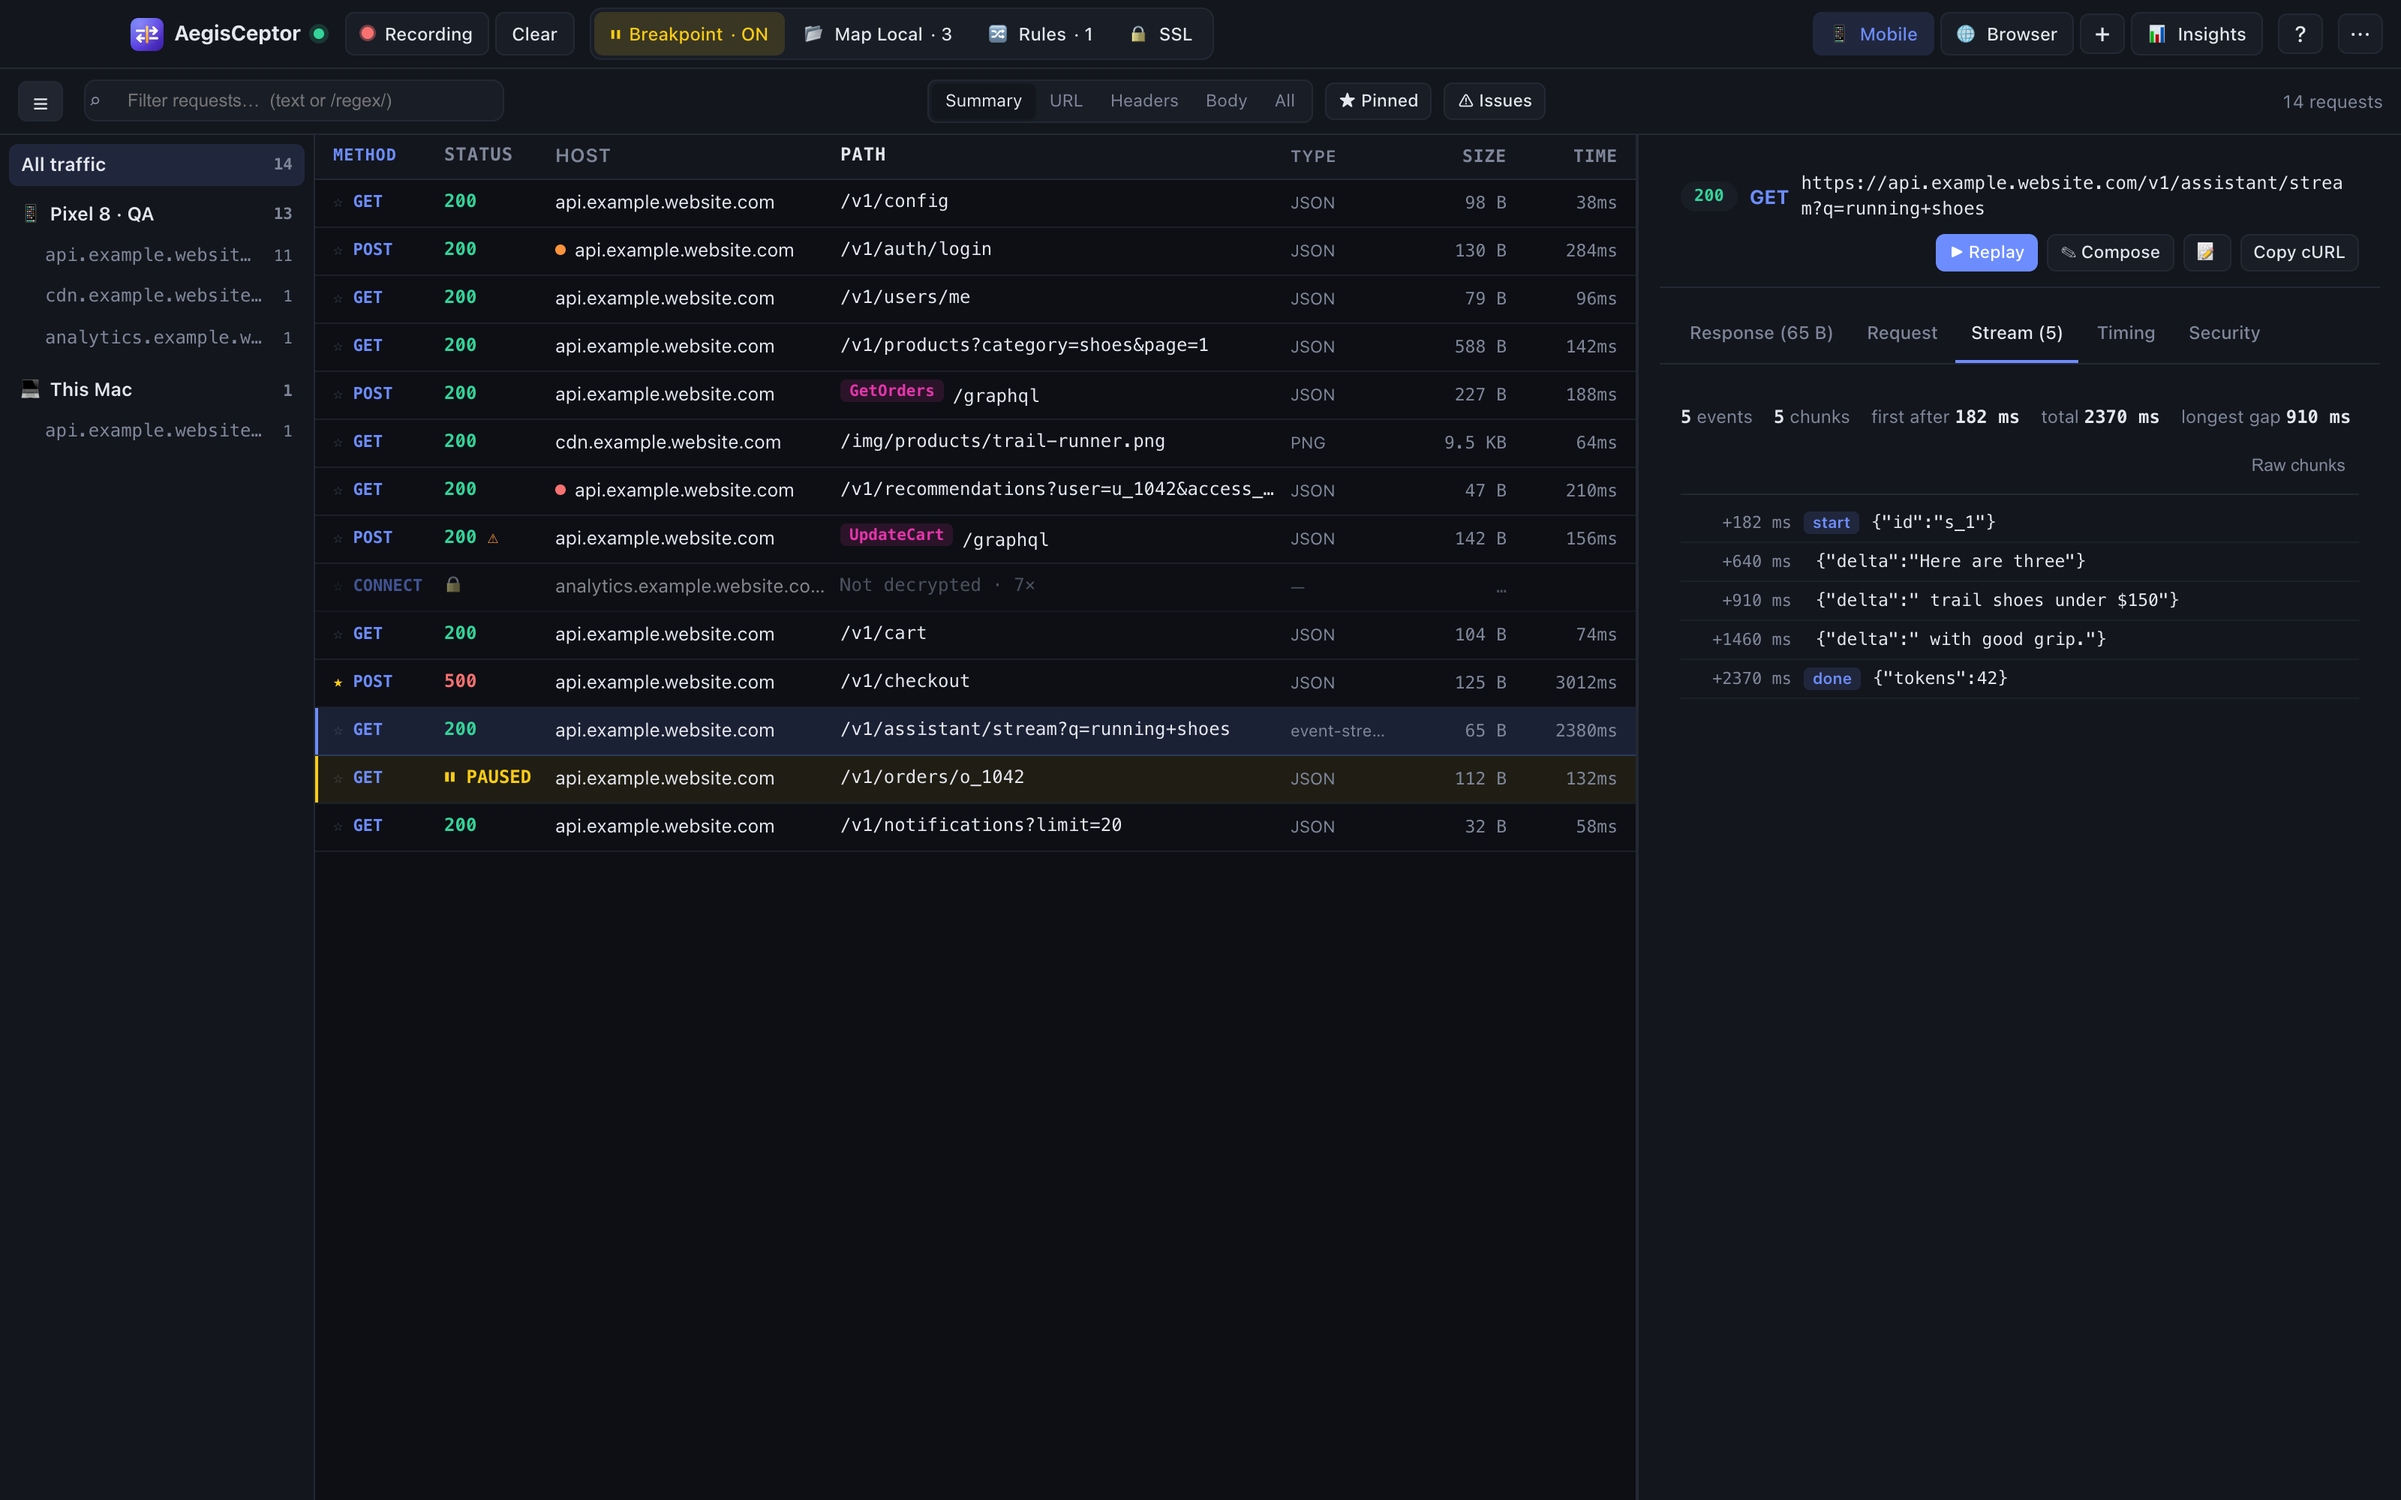
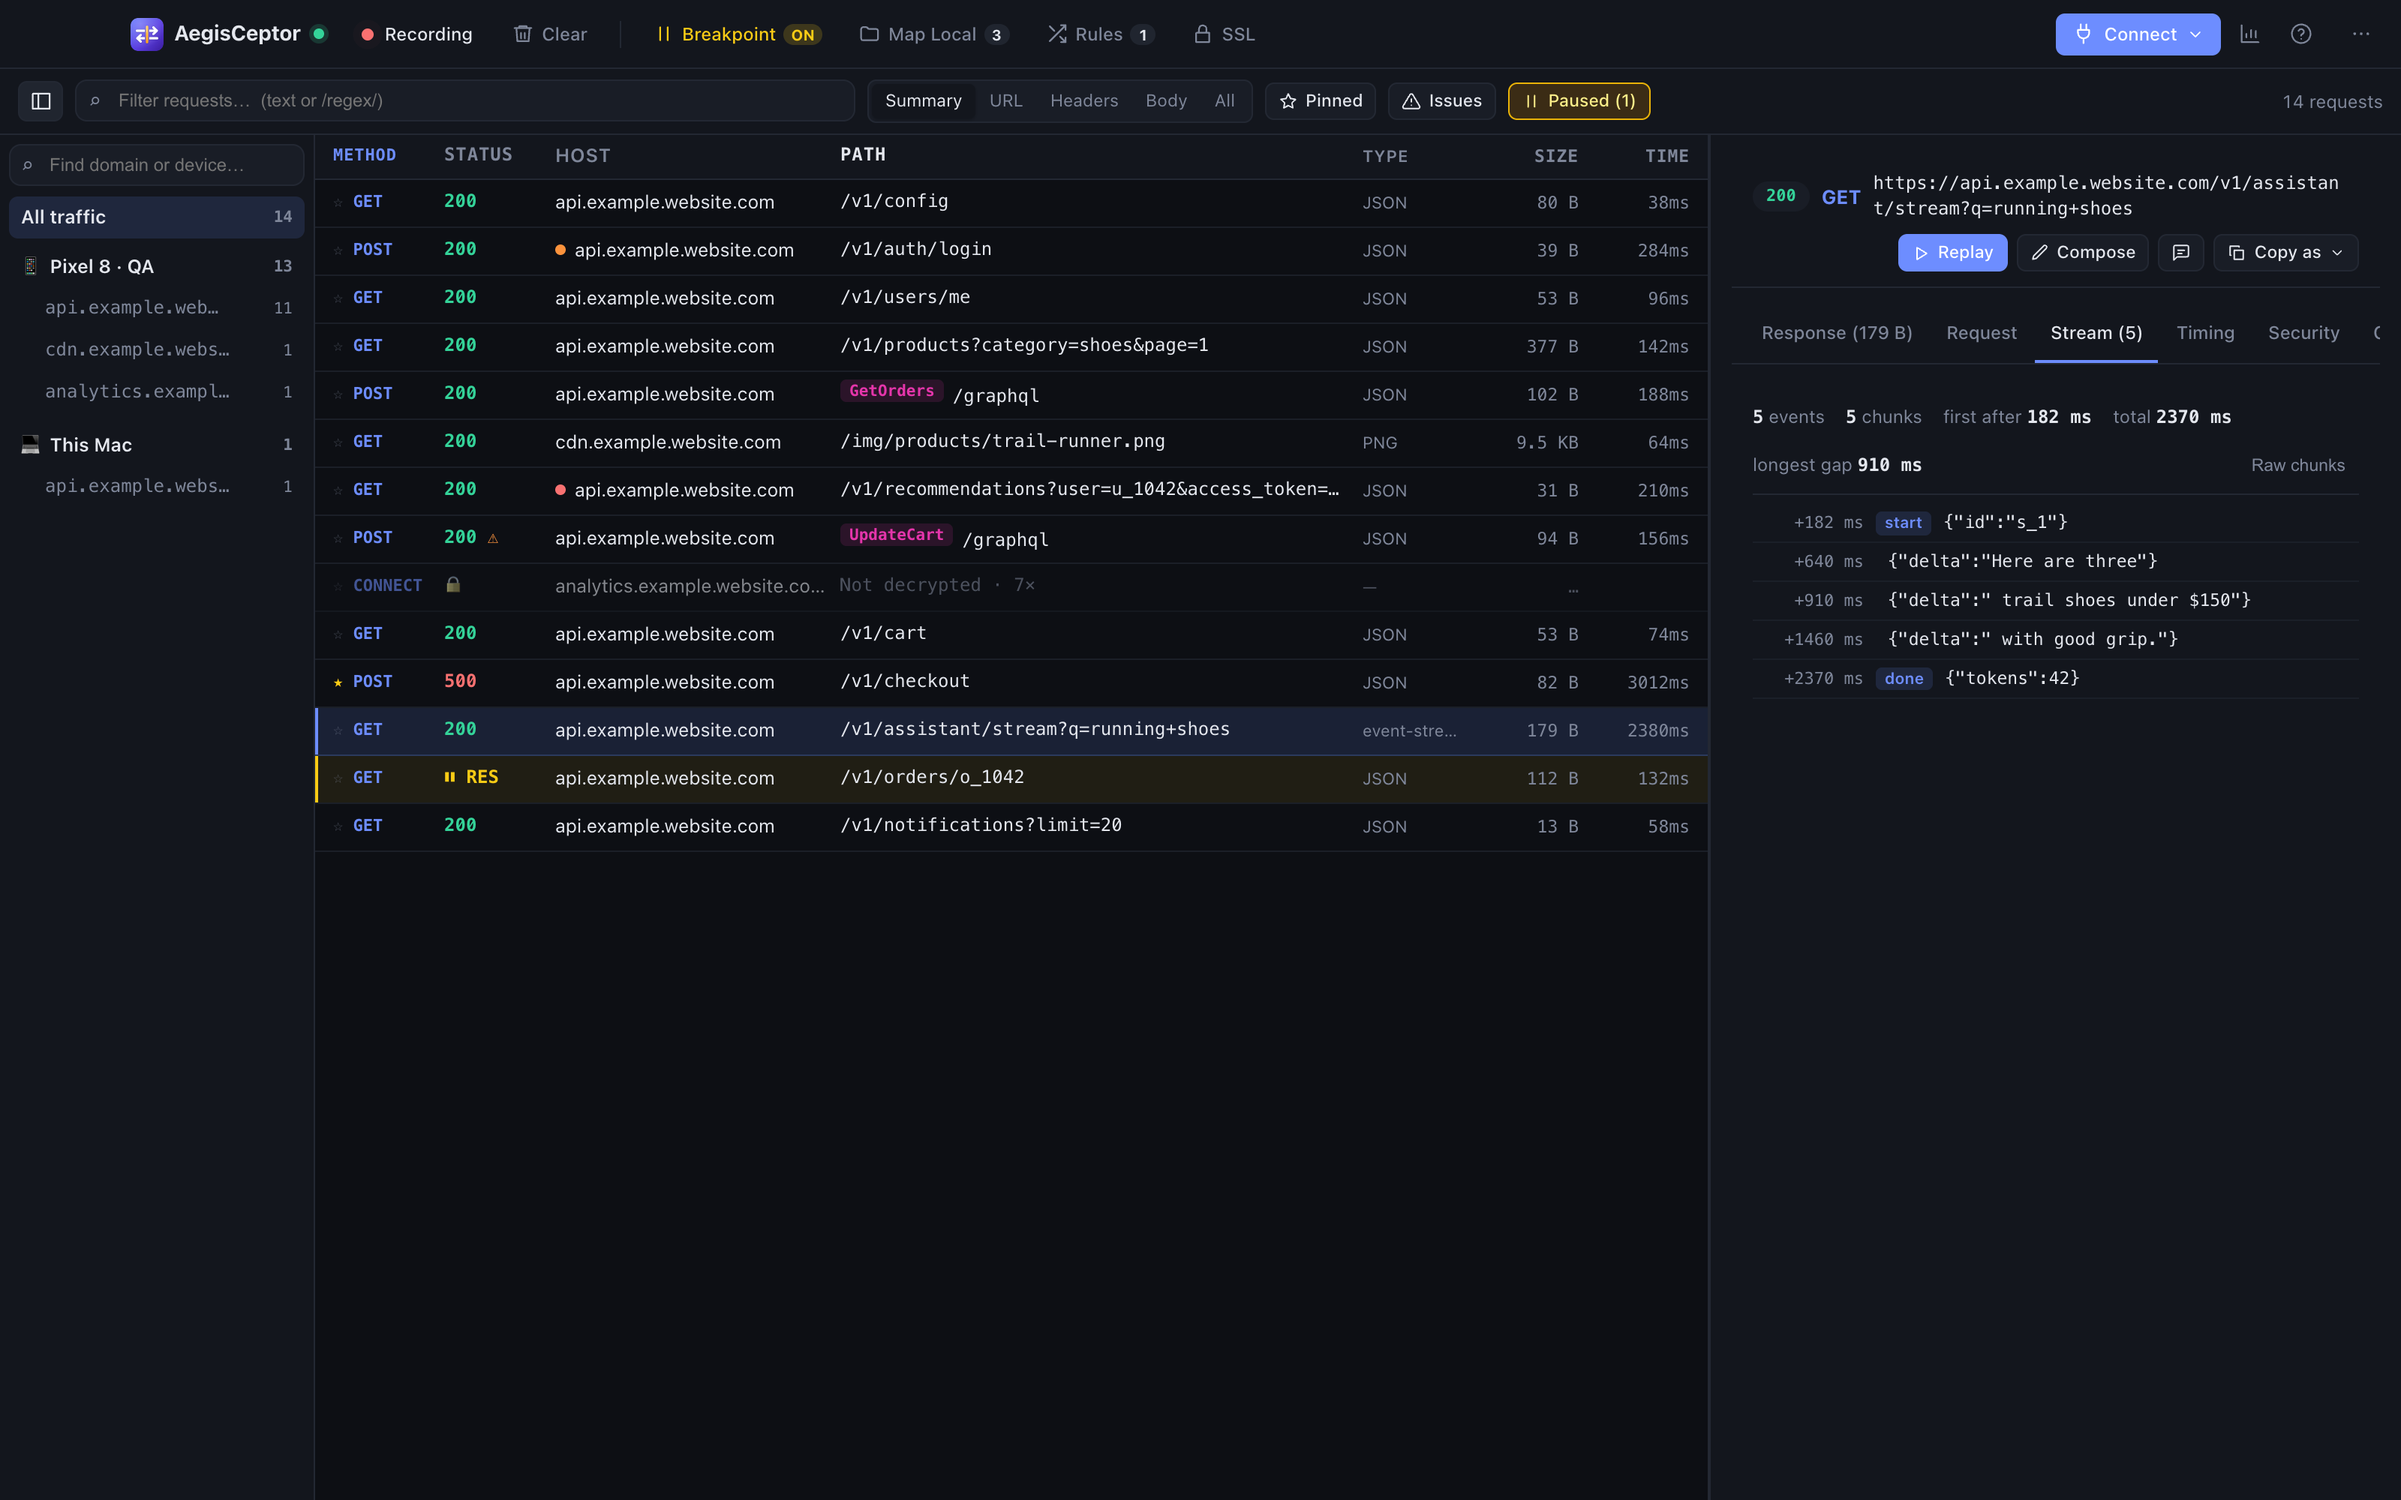
Update screenshots and README for 1.2

diff --git a/README.md b/README.md
@@ -5,6 +5,12 @@ mitmproxy and the bridge are bundled inside the app: no Homebrew, Node or Python
 
 Created by **[Jimmy Leonardo](https://www.jimmyleonardo.com)**.
 
+![AegisCeptor](screenshots/cover.png)
+
+**New in 1.2:** connect AI assistants (Claude Code, Codex CLI, Antigravity, Claude Desktop, Cursor…) through MCP in one
+click, session files, Copy as cURL / fetch / Python / Swift / Kotlin, WebSocket breakpoints, a native macOS menu bar and
+a cleaner toolbar.
+
 ![AegisCeptor traffic list with a JSON response](screenshots/01-traffic-json.png)
 
 ## Screenshots
@@ -15,6 +21,7 @@ Created by **[Jimmy Leonardo](https://www.jimmyleonardo.com)**.
 | **GraphQL** – operation names and errors, even on HTTP 200<br>![GraphQL error](screenshots/03-graphql-error.png) | **Security** – hints such as secrets in URLs<br>![Security](screenshots/04-security.png) |
 | **Streaming (SSE)** – every event with its arrival time<br>![SSE stream](screenshots/05-sse-stream.png) | **Timing** – connect, TLS, waiting and download per request<br>![Timing](screenshots/06-timing.png) |
 | **Insights** – error rate, latency, slowest and largest requests<br>![Insights](screenshots/07-insights.png) | **Light theme**<br>![Light theme](screenshots/09-light-theme.png) |
+| **Connect** – phone, browser, iOS Simulator / Mac app, Android Emulator or terminal from one menu<br>![Connect menu](screenshots/10-connect-menu.png) | **AI assistants (MCP)** – let your own AI assistant read traffic and create mocks; no API key needed<br>![AI assistants](screenshots/11-mcp-assistants.png) |
 
 ## Install
 
@@ -40,6 +47,8 @@ Rules are stored in `~/Library/Application Support/id.aegis-sentinel.ceptor/` an
 Both are kept when you update or reinstall the app.
 
 ## Uninstall
+
+If you connected AI assistants, click **Disconnect** for each one first (**⋯ → Settings → AI assistants (MCP)**).
 
 ```bash
 rm -rf /Applications/AegisCeptor.app
